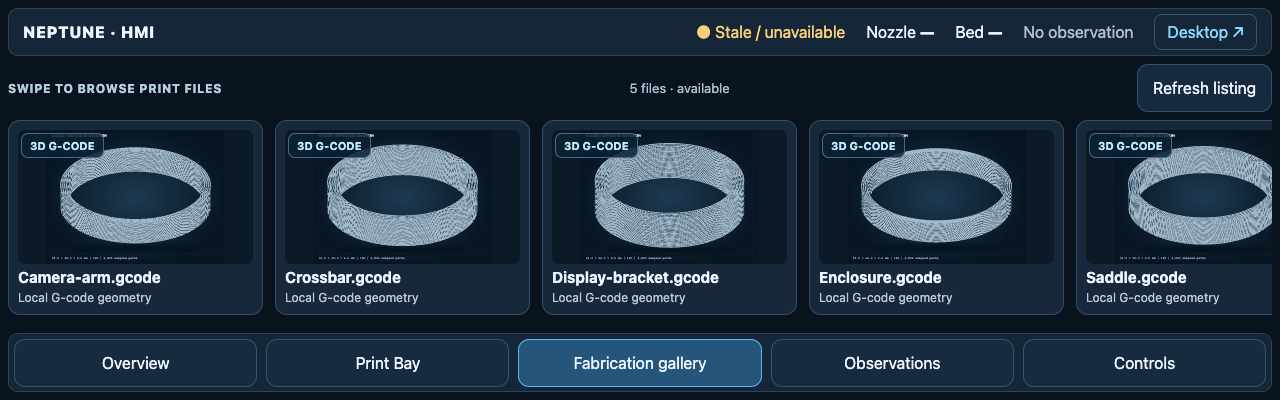
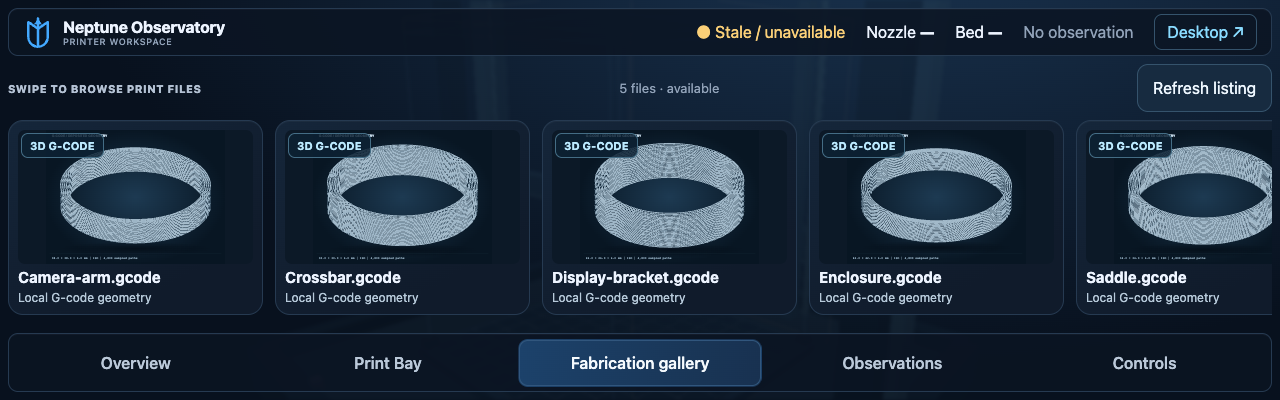
feat: share Observatory HMI styling and embed guarded operations

diff --git a/integrations/mks-wifi/src/mks_wifi_bridge/static/hmi.html b/integrations/mks-wifi/src/mks_wifi_bridge/static/hmi.html
@@ -5,8 +5,9 @@
 <meta name="viewport" content="width=device-width, initial-scale=1, viewport-fit=cover">
 <meta name="theme-color" content="#09131e">
 <title>Neptune Observatory · Waveshare HMI</title>
+<link rel="stylesheet" href="/static/observatory_theme.css">
+<link rel="stylesheet" href="/static/hmi_theme.css">
 <style>
-:root{font-family:system-ui,-apple-system,sans-serif;color-scheme:dark;background:#09131e;color:#edf6ff;font-synthesis:none}
 *{box-sizing:border-box}body{margin:0;overflow:hidden}button,input{font:inherit}button{cursor:pointer;min-height:48px;border:1px solid #35536c;background:#172b40;color:#eef7ff;border-radius:11px;padding:6px 15px;touch-action:manipulation}button:focus-visible,a:focus-visible{outline:3px solid #6bcbff;outline-offset:2px}button[aria-current="page"]{background:#25557b;border-color:#60b8f5}
 #app{width:100vw;height:100dvh;min-height:280px;display:grid;grid-template-rows:48px minmax(0,1fr) 59px;gap:8px;padding:8px}
 header{display:flex;align-items:center;justify-content:space-between;gap:14px;padding:0 14px;background:#152638;border:1px solid #2e445c;border-radius:10px;white-space:nowrap;min-width:0}
@@ -53,28 +54,25 @@ main{touch-action:pan-y;user-select:none}input{user-select:text}#view-print-bay{
 <script type="importmap">{"imports":{"three":"/static/vendor/three.module.js"}}</script>
 </head>
 <body>
+<div id="hmi-ambience" aria-hidden="true"></div>
 <div id="app">
-<header><span class="brand">NEPTUNE · HMI</span><div class="topdata"><span id="health" data-state="offline">● Connecting</span><span>Nozzle <b id="nozzle">—</b></span><span>Bed <b id="bed">—</b></span><span id="age" class="muted">No observation</span><a href="/">Desktop ↗</a></div></header>
+<header><span class="brand"><svg class="brandmark" viewBox="0 0 40 44" aria-hidden="true"><path d="M20 3v36M20 17 7 8v20a13 13 0 0 0 26 0V8L20 17Z" fill="none" stroke="currentColor" stroke-width="3.2" stroke-linecap="round" stroke-linejoin="round"/><path d="m20 3-5 8h10l-5-8Z" fill="currentColor"/></svg><span>Neptune Observatory<small>Printer workspace</small></span></span><div class="topdata"><span id="health" data-state="offline">● Connecting</span><span>Nozzle <b id="nozzle">—</b></span><span>Bed <b id="bed">—</b></span><span id="age" class="muted">No observation</span><a href="/">Desktop ↗</a></div></header>
 <main>
 <section id="view-overview" class="view active" aria-label="Printer overview">
- <article class="tile"><h2 class="heading">Current print</h2><div id="job-state" class="hero">Waiting for telemetry</div><div id="job-file" class="filename muted">No verified job</div><progress id="progress" value="0" max="100"></progress><div id="job-meta" class="detail">Progress not reported</div></article>
- <article class="tile"><h2 class="heading">Printer state</h2><div id="printer-state" class="hero">—</div><div id="printer-source" class="detail">Status source unavailable</div><div id="observed" class="detail">No observations received</div></article>
- <article class="tile"><h2 class="heading">Temperature</h2><div class="value">Nozzle <span id="nozzle-large">—</span></div><div class="value">Bed <span id="bed-large">—</span></div><div class="detail">Observed telemetry · read only</div></article>
+ <article class="card tile"><h2 class="heading">Current print</h2><div id="job-state" class="hero">Waiting for telemetry</div><div id="job-file" class="filename muted">No verified job</div><progress id="progress" value="0" max="100"></progress><div id="job-meta" class="detail">Progress not reported</div></article>
+ <article class="card tile"><h2 class="heading">Printer state</h2><div id="printer-state" class="hero">—</div><div id="printer-source" class="detail">Status source unavailable</div><div id="observed" class="detail">No observations received</div></article>
+ <article class="card tile"><h2 class="heading">Temperature</h2><div class="value">Nozzle <span id="nozzle-large">—</span></div><div class="value">Bed <span id="bed-large">—</span></div><div class="detail">Observed telemetry · read only</div></article>
 </section>
 <section id="view-print-bay" class="view" aria-label="Staged manufacturing artifacts"><iframe id="print-bay-frame" title="Print Bay staged 3D models" src="/print-bay?presentation=hmi"></iframe></section>
 <section id="view-models" class="view" aria-label="Models and print files">
  <div class="models-head"><h2 class="heading">Swipe to browse print files</h2><span id="model-count" class="muted">Loading cached index…</span><button id="refresh-files" type="button">Refresh listing</button></div>
- <div id="models" aria-label="Horizontally scrollable file previews" tabindex="0"><div class="tile">Loading files…</div></div>
+ <div id="models" aria-label="Horizontally scrollable file previews" tabindex="0"><div class="card tile">Loading files…</div></div>
 </section>
 <section id="view-observations" class="view" aria-label="Printer observations">
- <article class="tile"><div class="observations-head"><h2 class="heading">Temperature observations</h2><span class="legend"><b>●</b> Nozzle &nbsp; <b class="bed">●</b> Bed</span></div><div class="graph-wrap"><svg id="chart" viewBox="0 0 700 230" preserveAspectRatio="none" role="img" aria-label="Observed nozzle and bed temperature history"><text x="28" y="118" fill="#abc1d2">Waiting for observed temperature samples</text></svg></div></article>
- <article class="tile"><h2 class="heading">Observation integrity</h2><div id="integrity" class="hero">Waiting</div><div id="observations-note" class="detail">Only samples reported by the Observatory are charted. Missing data are not simulated.</div></article>
+ <article class="card tile"><div class="observations-head"><h2 class="heading">Temperature observations</h2><span class="legend"><b>●</b> Nozzle &nbsp; <b class="bed">●</b> Bed</span></div><div class="graph-wrap"><svg id="chart" viewBox="0 0 700 230" preserveAspectRatio="none" role="img" aria-label="Observed nozzle and bed temperature history"><text x="28" y="118" fill="#abc1d2">Waiting for observed temperature samples</text></svg></div></article>
+ <article class="card tile"><h2 class="heading">Observation integrity</h2><div id="integrity" class="hero">Waiting</div><div id="observations-note" class="detail">Only samples reported by the Observatory are charted. Missing data are not simulated.</div></article>
 </section>
-<section id="view-controls" class="view" aria-label="Operations">
- <article class="tile control-card"><div><h2 class="heading">Machine operations</h2><p class="detail">Use the existing Observatory controls for authorization, Operator Mode, and per-operation confirmation.</p></div><a href="/" aria-label="Open full Observatory controls">Open Observatory</a></article>
- <article class="tile control-card"><div><h2 class="heading">File selection</h2><p id="selected-file" class="detail">Select a print file in Models. The HMI never starts a print on selection.</p></div><button type="button" data-go="models">Browse models</button></article>
- <article class="tile control-card"><div><h2 class="heading">Source and safety</h2><p class="detail">This screen only reads API state. No automatic print commands, polling-induced motion, or file uploads.</p></div><button type="button" data-go="observations">View observations</button></article>
-</section>
+<section id="view-controls" class="view" aria-label="Machine operations and file management"><iframe id="operations-frame" title="Shared Observatory machine controls and files"></iframe></section>
 </main>
 <nav aria-label="HMI views"><button data-go="overview" aria-current="page">Overview</button><button data-go="print-bay">Print Bay</button><button data-go="models">Fabrication gallery</button><button data-go="observations">Observations</button><button data-go="controls">Controls</button></nav>
 </div>
@@ -87,10 +85,11 @@ main{touch-action:pan-y;user-select:none}input{user-select:text}#view-print-bay{
    <p id="inspector-details">G-code-derived filament representation; not a CAD solid.</p>
    <p id="inspector-status" role="status">Loading geometry…</p>
    <div class="inspector-actions"><button type="button" data-view-angle="iso">Isometric</button><button type="button" data-view-angle="top">Top</button><button type="button" data-view-angle="front">Front</button></div>
-   <p>Drag to orbit · pinch to zoom. Printer commands remain in Observatory.</p>
+   <p>Drag to orbit · pinch to zoom. Selection never starts a print.</p><button id="manage-model" type="button">Manage files &amp; print</button>
    <button id="inspector-close" type="button">Close</button>
   </div>
  </div>
 </dialog>
 <script src="/static/hmi.js" defer></script>
+<script type="module" src="/static/hmi_ambience.js"></script>
 </body></html>

diff --git a/integrations/mks-wifi/src/mks_wifi_bridge/static/print_bay.html b/integrations/mks-wifi/src/mks_wifi_bridge/static/print_bay.html
@@ -1,7 +1,8 @@
 <!doctype html>
 <html lang="en"><head><meta charset="utf-8"><meta name="viewport" content="width=device-width, initial-scale=1"><title>Print Bay · Neptune Observatory</title>
+<link rel="stylesheet" href="/static/observatory_theme.css">
 <style>
-:root{color-scheme:dark;font-family:Inter,system-ui,sans-serif;color:#edf4ff;background:#08111e}*{box-sizing:border-box}[hidden]{display:none!important}#message:empty{display:none}body{margin:0;background:radial-gradient(ellipse at 90% 0,#183a51,transparent 55%);min-height:100vh}main{max-width:1200px;margin:auto;padding:30px 22px}header{display:flex;justify-content:space-between;align-items:center;border-bottom:1px solid #294054;padding-bottom:24px}a{color:#5ed7e9;text-decoration:none}.eyebrow{font-size:11px;letter-spacing:.18em;text-transform:uppercase;color:#8fa7bd}h1{font-size:34px;margin:7px 0}h2{font-size:22px;margin:12px 0}small,.muted{color:#91a2b8}select,input,button{font:inherit;color:inherit;background:#13273b;border:1px solid #35506a;border-radius:9px;padding:12px}button{cursor:pointer}button:hover{border-color:#5ed7e9}button:disabled{opacity:.4;cursor:default}.primary{background:#5ed7e9;color:#08111e;border-color:#5ed7e9;font-weight:700}.row{display:flex;gap:10px;align-items:center;flex-wrap:wrap}.project{padding:25px 0}.plates{display:flex;gap:16px;overflow-x:auto;padding:8px 0 20px}.plate{flex:0 0 232px;border:1px solid #29435a;border-radius:14px;background:#102033;padding:14px;text-align:left;cursor:pointer}.plate.selected{border:2px solid #5ed7e9;padding:13px}.plate canvas{width:100%;height:170px;display:block;touch-action:none}.plate h3{margin:8px 0}.badge{color:#5ed7e9;font-size:12px}.card{background:#101f30;border:1px solid #294054;border-radius:14px;padding:22px;margin:18px 0}.meta{display:grid;grid-template-columns:repeat(3,1fr);gap:15px}.meta strong{display:block;margin-top:7px}.actions{display:flex;gap:9px;flex-wrap:wrap;margin:20px 0}.actions button{flex:1;min-width:145px}#message{padding:13px 0;white-space:pre-wrap;overflow-wrap:anywhere;color:#ffc56b}table{width:100%;border-collapse:collapse;font-size:13px}td,th{text-align:left;padding:13px 8px;border-bottom:1px solid #294054}code{font-size:11px;overflow-wrap:anywhere}.scroll{overflow:auto}details{margin:18px 0}footer{color:#91a2b8;font-size:12px;margin-top:30px}#login{display:flex;gap:8px;margin:15px 0}#login input{min-width:0}#empty{line-height:1.7}@media(max-width:600px){main{padding:20px 14px}h1{font-size:28px}.meta{grid-template-columns:1fr 1fr}.plate{flex-basis:190px}.plate canvas{height:145px}header{align-items:flex-start}.card{padding:16px}#login{flex-wrap:wrap}}
+:root{color-scheme:dark;font-family:Inter,system-ui,sans-serif;color:#edf4ff;background:#08111e}*{box-sizing:border-box}[hidden]{display:none!important}#message:empty{display:none}body{margin:0;background:radial-gradient(ellipse at 90% 0,#183a51,transparent 55%);min-height:100vh}main{max-width:1200px;margin:auto;padding:30px 22px}header{display:flex;justify-content:space-between;align-items:center;border-bottom:1px solid #294054;padding-bottom:24px}a{color:#5ed7e9;text-decoration:none}.eyebrow{font-size:11px;letter-spacing:.18em;text-transform:uppercase;color:#8fa7bd}h1{font-size:34px;margin:7px 0}h2{font-size:22px;margin:12px 0}small,.muted{color:#91a2b8}select,input,button{font:inherit;color:inherit;background:#13273b;border:1px solid #35506a;border-radius:9px;padding:12px}button{cursor:pointer}button:hover{border-color:#5ed7e9}button:disabled{opacity:.4;cursor:default}.primary{background:#5ed7e9;color:#08111e;border-color:#5ed7e9;font-weight:700}.row{display:flex;gap:10px;align-items:center;flex-wrap:wrap}.project{padding:25px 0}.plates{display:flex;gap:16px;overflow-x:auto;padding:8px 0 20px}.plate{flex:0 0 232px;border:1px solid #29435a;border-radius:14px;background:#102033;padding:14px;text-align:left;cursor:pointer}.plate.selected{border:2px solid #5ed7e9;padding:13px}.plate canvas{width:100%;height:170px;display:block;touch-action:none}.plate h3{margin:8px 0}.badge{color:#5ed7e9;font-size:12px}.card{border:1px solid var(--line);border-radius:15px;padding:22px;margin:18px 0}.meta{display:grid;grid-template-columns:repeat(3,1fr);gap:15px}.meta strong{display:block;margin-top:7px}.actions{display:flex;gap:9px;flex-wrap:wrap;margin:20px 0}.actions button{flex:1;min-width:145px}#message{padding:13px 0;white-space:pre-wrap;overflow-wrap:anywhere;color:#ffc56b}table{width:100%;border-collapse:collapse;font-size:13px}td,th{text-align:left;padding:13px 8px;border-bottom:1px solid #294054}code{font-size:11px;overflow-wrap:anywhere}.scroll{overflow:auto}details{margin:18px 0}footer{color:#91a2b8;font-size:12px;margin-top:30px}#login{display:flex;gap:8px;margin:15px 0}#login input{min-width:0}#empty{line-height:1.7}@media(max-width:600px){main{padding:20px 14px}h1{font-size:28px}.meta{grid-template-columns:1fr 1fr}.plate{flex-basis:190px}.plate canvas{height:145px}header{align-items:flex-start}.card{padding:16px}#login{flex-wrap:wrap}}
 @media(min-width:800px) and (max-height:600px){main{display:grid;grid-template-columns:260px minmax(0,1fr);gap:10px;padding:12px 20px}header{grid-column:1/-1;padding-bottom:8px}h1{font-size:23px;margin:3px 0}header .eyebrow{font-size:9px}.project{padding:6px 0}.project h2{font-size:18px;margin:8px 0}.project select{max-width:100%;padding:8px}.plates{padding:0;gap:10px}.plate{flex-basis:210px;padding:9px}.plate.selected{padding:8px}.plate canvas{height:95px}.plate h3{font-size:15px;margin:5px 0}.card{margin:0;padding:12px}main>section.card,details,footer,#message,#login{grid-column:1/-1}.actions{margin:12px 0}.actions button{padding:8px}footer{margin:12px 0}}
 .status-dot{width:10px;height:10px;border-radius:50%;background:#ffc56b;display:inline-block}.status-dot.ready{background:#46e58e}.status-dot.failed{background:#ff727c}summary{cursor:pointer;font-weight:650;min-height:24px}#plate-name{font-size:28px}#preparation-detail{line-height:1.6}#delivery-note{display:block;line-height:1.5}
 @media(min-width:800px) and (max-height:600px){main{padding:10px 20px;gap:8px}.plate canvas{height:90px}#selected.card{padding:10px}#selected{display:grid;grid-template-columns:1fr 1fr;column-gap:20px}#selected>.row:first-child{grid-column:1/-1}#plate-name{font-size:22px;margin:5px 0;grid-column:1;grid-row:2}#selected>.row:nth-of-type(2){grid-column:1;grid-row:3}#preparation-detail{grid-column:1;grid-row:4;font-size:13px;margin:5px 0;line-height:1.4}#delivery-actions{grid-column:2;grid-row:2/5;align-self:center;margin:5px 0}#retry{grid-column:2;grid-row:2/4;align-self:center}#delivery-note{grid-column:1/-1;font-size:12px}}

diff --git a/integrations/mks-wifi/src/mks_wifi_bridge/static/hmi.js b/integrations/mks-wifi/src/mks_wifi_bridge/static/hmi.js
@@ -11,7 +11,7 @@
    if(!res.ok){let body=await res.json().catch(()=>({}));throw new Error(body.detail||"Request failed: "+res.status);}
    return res.json();
  }
- function route(view){if(!["overview","print-bay","models","observations","controls"].includes(view))return;state.view=view;document.querySelectorAll(".view").forEach(el=>el.classList.toggle("active",el.id==="view-"+view));document.querySelectorAll("[data-go]").forEach(el=>{if(el.tagName==="BUTTON"){if(el.dataset.go===view)el.setAttribute("aria-current","page");else el.removeAttribute("aria-current");}});if(view==="models")loadFiles();}
+ function route(view){if(!["overview","print-bay","models","observations","controls"].includes(view))return;state.view=view;document.querySelectorAll(".view").forEach(el=>el.classList.toggle("active",el.id==="view-"+view));document.querySelectorAll("[data-go]").forEach(el=>{if(el.tagName==="BUTTON"){if(el.dataset.go===view)el.setAttribute("aria-current","page");else el.removeAttribute("aria-current");}});if(view==="models")loadFiles();if(view==="controls"&&!$("operations-frame").getAttribute("src"))$("operations-frame").src="/?presentation=hmi-operations&view=machine";}
  document.querySelectorAll("[data-go]").forEach(b=>b.addEventListener("click",()=>route(b.dataset.go)));
  let gesture=null;
  document.querySelector("main").addEventListener("pointercancel",()=>{gesture=null;});
@@ -27,9 +27,10 @@
   text("nozzle",value(t.nozzle_temperature));text("bed",value(t.bed_temperature));
   text("nozzle-large",value(t.nozzle_temperature));text("bed-large",value(t.bed_temperature));
   const job=s.print_job||{};
-  text("job-state",job.status||"Unknown");
-  text("job-file",job.filename?.status==="available"?job.filename.value:"No verified job filename");
+  text("job-state",job.status==="unknown"?"SD status unverified":job.status||"Awaiting job status");
+  text("job-file",job.filename?.status==="available"?job.filename.value:"No verified printer SD job");
   const percent=job.progress_percent?.status==="available"?number(job.progress_percent.value):null;
+  $("progress").hidden=percent===null;
   $("progress").value=percent===null?0:Math.max(0,Math.min(100,percent));
   text("job-meta",percent===null?"Progress not reported":percent.toFixed(1)+"% reported");
   text("printer-state",online?(t.printer_state?.value??job.status??"Connected"):"Unverified");
@@ -175,6 +176,7 @@
   }catch(e){if(e.message!=="Authentication required"){host.replaceChildren();const error=document.createElement("div");error.className="tile";error.textContent="File listing unavailable: "+e.message;host.append(error);text("model-count","Unavailable");}}
   finally{state.loading=false;}
  }
+ $("manage-model").addEventListener("click",()=>{closeInspector();$("operations-frame").src="/?presentation=hmi-operations&view=sdcard";route("controls");});
  $("refresh-files").addEventListener("click",loadFiles);
  $("login-form").addEventListener("submit",async e=>{e.preventDefault();text("login-error","");try{const res=await fetch("/api/auth/session",{method:"POST",credentials:"same-origin",headers:{"Content-Type":"application/json"},body:JSON.stringify({token:$("token").value})});if(!res.ok)throw new Error("Access token rejected");$("token").value="";$("login").classList.remove("visible");state.login=false;await refresh();}catch(err){text("login-error",err.message);}});
  async function refresh(){

diff --git a/integrations/mks-wifi/src/mks_wifi_bridge/static/index.html b/integrations/mks-wifi/src/mks_wifi_bridge/static/index.html
@@ -5,24 +5,10 @@
   <meta name="viewport" content="width=device-width, initial-scale=1, viewport-fit=cover">
   <meta name="theme-color" content="#08111e">
   <title>Neptune Observatory</title>
+  <link rel="stylesheet" href="/static/observatory_theme.css">
+  <link rel="stylesheet" href="/static/hmi_operations.css">
   <style>
-    :root {
-      color-scheme: dark;
-      --bg: #08111e;
-      --panel: #101d2d;
-      --panel-hi: #15253a;
-      --line: #263a51;
-      --muted: #91a2b8;
-      --text: #edf4ff;
-      --blue: #43a9ff;
-      --cyan: #5ed7e9;
-      --green: #46e58e;
-      --red: #ff727c;
-      --amber: #ffc56b;
-      font-family: Inter, ui-sans-serif, system-ui, -apple-system, BlinkMacSystemFont, "Segoe UI", sans-serif;
-      font-synthesis: none;
-      text-rendering: optimizeLegibility;
-    }
+
     * { box-sizing: border-box; }
     [hidden] { display: none !important; }
     body { margin: 0; min-height: 100vh; background: radial-gradient(ellipse at 70% -20%, #1a3451 0, transparent 42%), var(--bg); color: var(--text); }
@@ -60,7 +46,7 @@
     @keyframes enter { from { opacity: .4; transform: translateY(4px); } to { opacity: 1; transform: none; } }
     .grid { display: grid; gap: 14px; }
     .stats { grid-template-columns: minmax(190px, 1.35fr) repeat(3, minmax(135px, 1fr)); }
-    .card { min-width: 0; background: linear-gradient(150deg, #15263a, #101b2b 76%); border: 1px solid var(--line); border-radius: 15px; box-shadow: 0 10px 26px #02071140, inset 0 1px #ffffff08; }
+
     .stat { min-height: 112px; padding: 18px; display: flex; align-items: center; gap: 13px; }
     .temperature-stat { position: relative; overflow: hidden; padding-left: 20px; }
     .temperature-stat::before { content: ""; position: absolute; inset: 16px auto 16px 0; width: 3px; border-radius: 0 3px 3px 0; background: var(--blue); }
@@ -869,6 +855,13 @@
         if (button.dataset.view === "overview") maybeLoadTwinPreview();
         drawCharts();
       }));
+      const presentation = new URLSearchParams(location.search);
+      if(presentation.get("presentation")==="hmi-operations") {
+        document.body.classList.add("hmi-operations");
+        const requested=presentation.get("view");
+        const initial=["machine","motion","sdcard","history","console"].includes(requested)?requested:"machine";
+        document.querySelector(`.nav button[data-view="${initial}"]`)?.click();
+      }
       document.querySelectorAll("[data-open-view]").forEach((button) => button.addEventListener("click", () => {
         document.querySelector(`.nav button[data-view="${button.dataset.openView}"]`)?.click();
       }));

diff --git a/integrations/mks-wifi/src/mks_wifi_bridge/static/hmi_theme.css b/integrations/mks-wifi/src/mks_wifi_bridge/static/hmi_theme.css
@@ -1,0 +1,23 @@
+/* Presentation overrides retain the shared Observatory card and token definitions. */
+html,body{width:100%;height:100%;overflow:hidden!important;overscroll-behavior:none}
+body{background:radial-gradient(ellipse at 70% -20%,#1a3451,transparent 65%),var(--bg);color:var(--text)}
+#hmi-ambience{position:fixed;inset:0;pointer-events:none;overflow:hidden;z-index:0;opacity:.5;filter:blur(1.2px) saturate(.65)}
+#hmi-ambience canvas{width:100%;height:100%;display:block}
+#app{position:relative;z-index:1;max-height:100dvh;min-height:0!important;overflow:hidden}
+#app header,#app nav{background:#0a1422d9;border-color:var(--line);box-shadow:inset 0 1px #ffffff08}
+#app .brand{display:flex;gap:10px;align-items:center;font-weight:720;letter-spacing:-.02em;font-size:16px;text-transform:none}
+.brandmark{height:33px;width:30px;color:var(--blue)}.brand small{display:block;font-size:9px;color:var(--muted);font-weight:500;letter-spacing:.06em;text-transform:uppercase}
+#app .tile{background:linear-gradient(150deg,#15263ac7,#101b2bcc 76%);border-color:var(--line);border-radius:15px;box-shadow:0 10px 26px #02071140,inset 0 1px #ffffff08}
+#app .heading{color:#b4c2d4;letter-spacing:.045em;font-size:11px}
+#app .hero{letter-spacing:-.035em;font-size:30px;text-transform:capitalize;line-height:1.2;margin:12px 0}
+#app .detail,#app .muted{color:var(--muted)}
+#app .value{font-size:28px;letter-spacing:-.035em;margin:12px 0}
+#app #view-overview .tile:last-child{position:relative;padding-left:24px}
+#app #view-overview .tile:last-child::before{content:"";position:absolute;inset:18px auto 18px 0;width:3px;background:linear-gradient(var(--blue),var(--green));border-radius:4px}
+#app nav button{background:transparent;border-color:transparent;border-radius:10px;color:#bbc9d9;font-weight:550;min-height:48px;max-height:48px}
+#app nav button[aria-current="page"]{background:linear-gradient(100deg,#1c426c,#183150);box-shadow:inset 0 0 0 1px #31577e;color:#f6fbff}
+#app .model{border-color:var(--line);background:linear-gradient(150deg,#15263a,#101b2b 76%);border-radius:15px;box-shadow:inset 0 1px #ffffff08}
+#app .model.selected{border-color:var(--cyan)}
+#view-controls.active{display:block!important;overflow:hidden}
+#operations-frame{width:100%;height:100%;border:0;border-radius:15px}
+@media(prefers-reduced-motion:reduce){#hmi-ambience{filter:none;opacity:.15}}

diff --git a/integrations/mks-wifi/src/mks_wifi_bridge/static/hmi_ambience.js b/integrations/mks-wifi/src/mks_wifi_bridge/static/hmi_ambience.js
@@ -1,0 +1,28 @@
+/* Decorative schematic; never used as evidence of actual printer position. */
+import * as THREE from '/static/vendor/three.module.js';
+import {makeMachine} from '/static/digital_twin.js';
+const host=document.getElementById('hmi-ambience');
+try{
+ const renderer=new THREE.WebGLRenderer({antialias:false,alpha:true,powerPreference:'low-power'});
+ renderer.setPixelRatio(Math.min(devicePixelRatio,1));host.append(renderer.domElement);
+ const scene=new THREE.Scene();scene.add(new THREE.HemisphereLight(0x73c9ff,0x07111e,2));
+ const light=new THREE.DirectionalLight(0x8ee8ff,3);light.position.set(200,500,250);scene.add(light);
+ const machine=makeMachine(scene);machine.setMachinePosition(110,110,85);
+ const camera=new THREE.PerspectiveCamera(38,1,1,3000),focus=new THREE.Vector3(25,165,0);
+ const reduce=matchMedia('(prefers-reduced-motion: reduce)');
+ let last=0,phase=0,frame=0,disposed=false,painted=false;
+ reduce.addEventListener("change",()=>{painted=false;});
+ addEventListener("resize",()=>{painted=false;});
+ function draw(now){
+  if(disposed)return;frame=requestAnimationFrame(draw);
+  if(document.hidden||(reduce.matches&&painted)||now-last<1000/20)return;
+  const delta=last?Math.min(now-last,100):0;last=now;if(!reduce.matches)phase+=delta*.000035;
+  const w=host.clientWidth,h=host.clientHeight;if(!w||!h)return;
+  if(renderer.domElement.width!==w||renderer.domElement.height!==h)renderer.setSize(w,h,false);
+  camera.aspect=w/h;camera.updateProjectionMatrix();
+  camera.position.set(focus.x+Math.sin(.65+phase)*430,260+Math.sin(phase*.4)*20,Math.cos(.65+phase)*430);
+  camera.lookAt(focus);renderer.render(scene,camera);painted=true;
+ }
+ frame=requestAnimationFrame(draw);host.dataset.renderer='ready';
+ addEventListener('pagehide',()=>{disposed=true;cancelAnimationFrame(frame);scene.traverse(o=>{o.geometry?.dispose();if(Array.isArray(o.material))o.material.forEach(m=>m.dispose());else o.material?.dispose();});renderer.dispose();},{once:true});
+}catch{host.dataset.renderer='unavailable';}

diff --git a/integrations/mks-wifi/src/mks_wifi_bridge/static/hmi_operations.css b/integrations/mks-wifi/src/mks_wifi_bridge/static/hmi_operations.css
@@ -1,0 +1,12 @@
+/* Existing controls rendered in a bounded touch panel; no duplicate command handlers. */
+body.hmi-operations{height:100dvh;min-height:0;overflow:hidden;background:transparent}
+body.hmi-operations .shell{height:100%;min-height:0;display:grid;grid-template-columns:minmax(0,1fr);grid-template-rows:50px minmax(0,1fr)}
+body.hmi-operations .sidebar{padding:0;border:0;background:#0a1422d9;display:block;min-height:0}
+body.hmi-operations .sidebar .brand,body.hmi-operations .sidebar-foot,body.hmi-operations .mobile-brand,body.hmi-operations .topbar,body.hmi-operations .nav>a{display:none}
+body.hmi-operations .nav{display:flex;gap:6px;overflow-x:auto;padding:2px 4px}
+body.hmi-operations .nav button{display:none;min-height:44px;white-space:nowrap;flex:1;width:auto}
+body.hmi-operations .nav button:is([data-view=machine],[data-view=motion],[data-view=sdcard],[data-view=history],[data-view=console]){display:flex;justify-content:center}
+body.hmi-operations main{padding:8px 4px 4px;height:100%;overflow:auto;overscroll-behavior:contain;max-width:none}
+body.hmi-operations .view{min-height:0}
+body.hmi-operations .btn,body.hmi-operations button,body.hmi-operations input,body.hmi-operations select{min-height:44px}
+body.hmi-operations dialog{max-height:calc(100dvh - 12px);overflow-y:auto;max-width:calc(100vw - 20px)}

diff --git a/integrations/mks-wifi/src/mks_wifi_bridge/static/observatory_theme.css b/integrations/mks-wifi/src/mks_wifi_bridge/static/observatory_theme.css
@@ -1,0 +1,19 @@
+/* Shared Observatory design tokens and card surface. */
+    :root {
+      color-scheme: dark;
+      --bg: #08111e;
+      --panel: #101d2d;
+      --panel-hi: #15253a;
+      --line: #263a51;
+      --muted: #91a2b8;
+      --text: #edf4ff;
+      --blue: #43a9ff;
+      --cyan: #5ed7e9;
+      --green: #46e58e;
+      --red: #ff727c;
+      --amber: #ffc56b;
+      font-family: Inter, ui-sans-serif, system-ui, -apple-system, BlinkMacSystemFont, "Segoe UI", sans-serif;
+      font-synthesis: none;
+      text-rendering: optimizeLegibility;
+    }
+    .card { min-width: 0; background: linear-gradient(150deg, #15263a, #101b2b 76%); border: 1px solid var(--line); border-radius: 15px; box-shadow: 0 10px 26px #02071140, inset 0 1px #ffffff08; }

diff --git a/integrations/mks-wifi/src/mks_wifi_bridge/static/digital_twin.js b/integrations/mks-wifi/src/mks_wifi_bridge/static/digital_twin.js
@@ -45,7 +45,7 @@ function makeHomeSwitch(parent, x, y, z, label) {
   return switchBody;
 }
 
-function makeMachine(scene) {
+export function makeMachine(scene) {
   const root = new THREE.Group();
   scene.add(root);
   const frame = new THREE.Group();

diff --git a/docs/waveshare-hmi.md b/docs/waveshare-hmi.md
@@ -22,9 +22,7 @@ Print Bay reuses `/print-bay?presentation=hmi` in a same-origin frame to preserv
 its existing implementation and authentication. Exported STL plate models are
 interactive. Automatic preparation happens before **Ready to send**; stale or invalid
 artifacts are not deliverable. Upload and SD export remain explicit operations.
-The desktop Print Bay keeps recovery/history controls. Existing machine controls
-remain in Observatory with Operator Mode, readiness and confirmation gates; selecting
-a gallery model does not submit or start a print.
+The desktop Print Bay keeps recovery/history controls. The Controls panel now embeds the existing Observatory machine, motion, files, history and console views with their original Operator Mode, readiness and confirmation handlers. The gallery inspector’s **Manage files & print** action opens the same file controls without selecting or starting a job.
 
 The fabrication gallery reconstructs deposited filament from locally available
 G-code, with a shaded geometry preview and a bundled Three.js orbit inspector.
@@ -55,3 +53,20 @@ These rendered screenshots use synthetic fixtures and unavailable printer teleme
 CI also verifies shared authentication, desktop/mobile parity, isolated touch/orbit
 interaction, and absence of automatic printer writes. Physical Pi GPU performance
 and reboot acceptance remain to be checked on the commissioned appliance.
+
+## Shared Observatory presentation
+
+Desktop Observatory, HMI and Print Bay load `observatory_theme.css` for the same
+tokens and card surface. The HMI retains its bounded layout and horizontal touch
+navigation, using the Observatory logo, gradients, borders, shadows and typography.
+The decorative background reuses `makeMachine` from the existing digital twin: a
+slow close-up orbit around an illustrative focal point, tinted and blurred behind
+translucent cards. It is not telemetry or a commanded machine pose. Rendering is
+capped at 20 fps / pixel ratio 1, pauses when hidden, becomes static with reduced
+motion preferences, and falls back to the gradient if WebGL is unavailable.
+
+The overview explicitly distinguishes **SD status unverified** from OctoPrint host
+idle. Missing progress hides the progress bar instead of implying a zero-percent
+job. Read-only monitoring remains usable while operation gates are disabled.
+
+![Updated Observatory HMI overview](screenshots/hmi-overview-1280x400.png)

diff --git a/deploy/raspberry-pi/README.md b/deploy/raspberry-pi/README.md
@@ -89,8 +89,9 @@ never modified. The standalone optional read-only host-directory overlay remains
 available. Cached reconstruction lives in the existing Observatory data volume.
 A remote printer SD filename alone cannot provide geometry without G-code bytes.
 
-File selection never prints. Machine controls use the existing desktop control
-flow, authentication, Operator Mode, readiness checks, and explicit confirmation.
+File selection never prints. Machine controls and files use the existing Observatory handlers within a bounded
+HMI operations panel, with authentication, Operator Mode, readiness checks and
+explicit confirmation.
 Uploads and physical actions remain explicit. No motion, heating, uploads or print
 submission are part of application validation.
 
